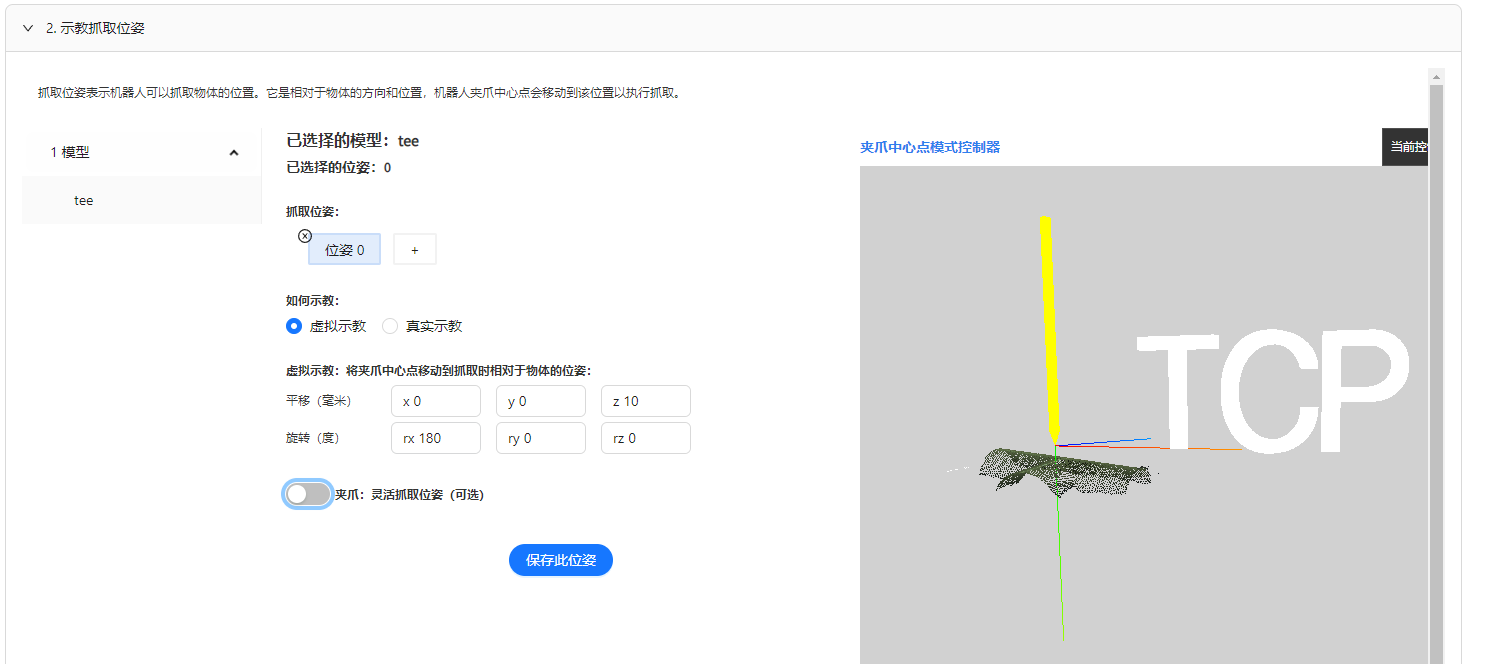
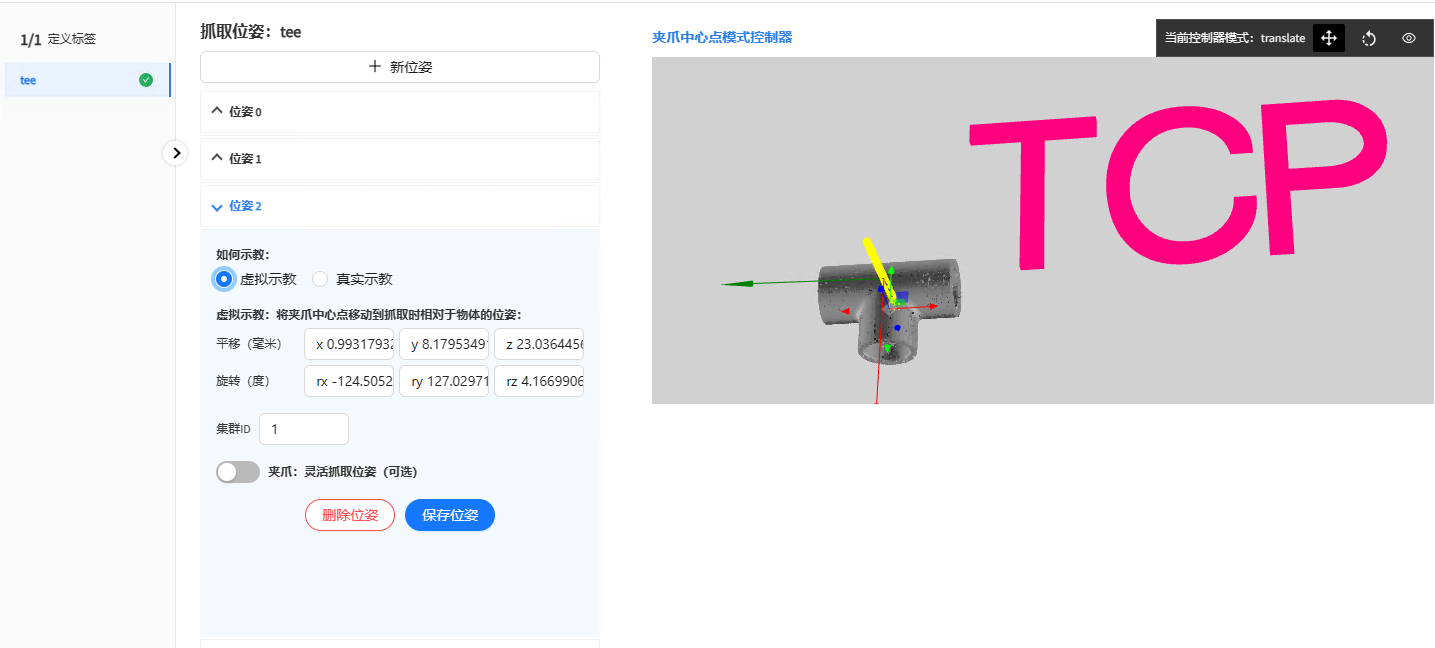
added project auto deploy

diff --git a/docs/source/application/vision-project/pick.rst b/docs/source/application/vision-project/pick.rst
@@ -60,13 +60,14 @@
     .. image:: images/virtual_teach_pose.png
         :scale: 70%
 
-    **同一个物体使用多个示教时，如果有其中一个抓取点位无法达到，例如被箱体挡住，则会使用其它可以达到的示教关系。**
+    4. 输入cluster ID, 来分配示教组。更多关于组群抓取、示教组 请查阅 :ref:`组群抓取`
+
+
+    **同一个物体建立了多个示教时，如果有其中一个示教点位无法执行抓取，例如被箱体挡住，则会使用剩余无碰撞的示教关系。**
 
 
 真实示教
 ~~~~~~~~~
-
-    TODO: eye-in-hand的真实示教在capture的同时也需要发送机器人位姿
 
     真实示教是由用户移动机器人至标准的抓取姿态，然后发送该位姿至机器人视觉认知系统，由机器人视觉认知系统计算并记录TCP和物体的相对关系。
 
@@ -75,16 +76,25 @@
     1. 首先从左边的标签列来选择一个要示教的物体标签。
 
     
-    2. 点击 ``+`` 添加一个抓取姿势。
+    2. 点击 ``+`` 添加一个抓取姿势，并切换到真实示教。
+
+    .. image:: images/virtual_teach_pose.png
+        :scale: 70%
+    
 
     .. warning::
         1. 需要确保场景中只有一个物体，因为如果有多个物体，则无法判断是以两个中的哪个来示教。
         2. 示教过程中不可以移动物体，如果物体不小心移动了，则需要重新拍照定位进行示教。
 
-    3. 来到UR面板，切换到发送位姿脚本。
-    4. 确认ip和port和机器人视觉认知系统设置的一致。
-    5. 移动机器人至标准抓取姿态。并设置current pose为该姿态。
-    6. 调用daoai_teach_pose()函数，运行机器人脚本，发送位姿。
+    3. 如果您是Eye-to-Hand配置，那么请直接点击拍照来定位物体。
+    
+    .. warning::
+        如果您是Eye-in-Hand抓取，那么在点击拍照之前，需要先参考下面的步骤，发送机器人 **拍照位姿** 到视觉认知系统，然后再点击拍照定位物体。
+    
+    4. 来到UR面板，切换到发送位姿脚本。
+    5. 确认ip和port和机器人视觉认知系统设置的一致。
+    6. 移动机器人至标准抓取姿态。并设置current pose为当前姿态。
+    7. 调用daoai_teach_pose()函数，运行机器人脚本，发送当前位姿。
 
         .. image:: images/ur_teach_pose.png
             :scale: 70%
@@ -99,7 +109,12 @@
     .. tip::
         在真实示教后，仍然可以切换到虚拟示教来查看、微调所记录的TCP和物体的相对位置关系。
 
+    9. 输入cluster ID, 来分配示教组。更多关于组群抓取、示教组 请查阅 :ref:`组群抓取`
+
     **同一个物体使用多个示教时，如果有其中一个抓取点位无法达到，例如被箱体挡住，则会使用其它可以达到的示教关系。**
+
+    
+
 
 灵活位姿抓取（可选）
 ~~~~~~~~~~~~~~~~~~~
@@ -141,6 +156,27 @@
 8. z轴可旋转：选择1， 360度，180度，不允许z轴旋转。
 
 9. 全部设置完成后，点击保存此位姿完成设置。
+
+
+
+组群抓取（可选）
+~~~~~~~~~~~~~~~~~~~~~~
+
+组群抓取（cluster picking）是一种抓取策略。指在抓取时，采用距离物体最近的示教组群的示教关系进行抓取。其目的是为了应对物体在远离示教点位执行抓取时产生的误差增加的现象。
+
+- 组群的选择：抓取时，距离物体最近的示教组群会被选择用于抓取策略。
+
+    .. image:: images/cluster_picking.png
+        :scale: 70%
+
+- 组群内的选择：同一组群内如果存在多个示教姿态，那么抓取时，会优先采用rz旋转最小的姿态。
+
+- 组群的分布：示教组群的位置应均匀分布在抓取的空间内以达到更好的抓取效果。
+
+- 组群的示教: 同一族群内，示教时物体的位置应当尽可能保持在小范围内，不要过过于分散。
+    
+    .. image:: images/cluster_picking_2.png
+        :scale: 70%
 
 
 3. 设置防碰撞
@@ -211,3 +247,4 @@
 
 
 探测和抓取全部设置完成后，您的任务就准备好进行部署了。请参考 :ref:`任务部署` 
+

diff --git a/docs/source/application/index.rst b/docs/source/application/index.rst
@@ -1,6 +1,10 @@
 软件应用
 ============
 
+.. contents::
+    :local:
+
+
 创建项目
 ----------
     1. 点击“创建新项目”
@@ -60,9 +64,43 @@
 
 .. 软件的应用总共分为3大类。
 
-.. contents::
-    :local:
 
+项目开机自启
+-----------------
+
+如果您配置好了一个项目，想要长期部署，那么开机自启该项目可能会让部署更方便。
+
+开机部署可以在开机后，自动运行服务器实例管理器，然后启动设置自启的实例，并部署设置自启的项目。
+
+开机自启的配置分为两部分：
+
+1. 服务器实例自启
+~~~~~~~~~~~~~~~~~~~
+
+勾选服务器实例开机自启，勾选后，当电脑开机后，服务器实例管理器会自动启动，并且该实例会自动启动并打开网页。
+    .. image:: images/instance_auto_start.png
+        :scale: 60%
+
+想要取消时，选中一个服务器实例，然后点击 Modify，取消勾选服务器开机自启选项即可。
+    .. image:: images/instance_modify.png
+        :scale: 60%
+
+
+2. 视觉项目自启
+~~~~~~~~~~~~~~~~
+
+在项目页面中，在项目栏右侧，点击设置为自动部署项目，自动部署项目栏的左侧开头会有自动启动图标。
+    .. image:: images/solution_auto_deploy.png
+        :scale: 60%
+
+自动部署项目会在服务器实例启动时，自动打开并连接相机，机器人，并部署。
+
+.. note::
+    在开机自启时，会即刻部署项目，这就需要连接相机。
+    连接相机时 系统会处于未响应状态，从而显示从服务器断开。这是正常的，请等待1-3分钟直到相机连接成功或者失败。
+    如果开机自启等待过于久，请检查相机是否正确连接，供电是否正常。
+
+想要取消时，点击取消自动部署即可。
 
 
 抓取应用

diff --git a/docs/source/application/vision-project/empty_box_check.rst b/docs/source/application/vision-project/empty_box_check.rst
@@ -1,7 +1,7 @@
-Empty Box Check
+空箱检测功能
 =================
 
-本章会详细介绍如何设置 Empty Box Check 功能。
+本章会详细介绍如何设置 空箱检测 （Empty Box Check） 功能。
 
 Empty Box Check 是一种查看ROI中是否存在物体的方法，主要用于保护场景材料、设备和人身安全的重要判断条件。自动化场景中，系统会根据大量条件判断状态机、流程的变化。
 当场景中仍然存在物体、工件、障碍物，系统却无法获得该信号时，可能会导致机械设备、零件或者人身安全。

diff --git a/docs/source/application/vision-project/driftcheck.rst b/docs/source/application/vision-project/driftcheck.rst
@@ -8,7 +8,7 @@
 
 快速精度检测流程的主要步骤如下：
 
-1. 将标定二维码粘贴或固定在机械臂法兰上，并确保在精度检测流程中二维码的位置不会发生变化。
+1. 将标定二维码粘贴或固定在机械臂法兰上，并确保在精度检测流程中二维码的位置不会发生变化。  `标定二维码 <https://daoairoboticsinc-my.sharepoint.com/:b:/g/personal/nrd_daoai_com/EbctMVBQVNdHjGzQdKVOr6wBg40vqWt5wjOZwgfcnhFLDQ?e=0JQ7EU>`_
 
     .. image:: images/driftcheck_qr.png
         :scale: 45%

diff --git a/docs/source/getting-started/release-notes/index.rst b/docs/source/getting-started/release-notes/index.rst
@@ -7,8 +7,7 @@
 .. note::
     新版本包含旧版本的修复
 
-DaoAIVision_2.24.2.0_XXX，2月20号 patch note: TODO
---------------------------------------------------
+.. DaoAIVision_2.24.2.0_XXX，2月20号 patch note: 
+.. --------------------------------------------------
 
-    - TODO
-    - 新增功能
+..     - 新增功能

diff --git a/docs/source/application/vision-project/index.rst b/docs/source/application/vision-project/index.rst
@@ -42,9 +42,9 @@
         :maxdepth: 1
         
         detection
-        empty_box_check
         pick
         deploy
+        empty_box_check
 
 删除任务
 -------------------
